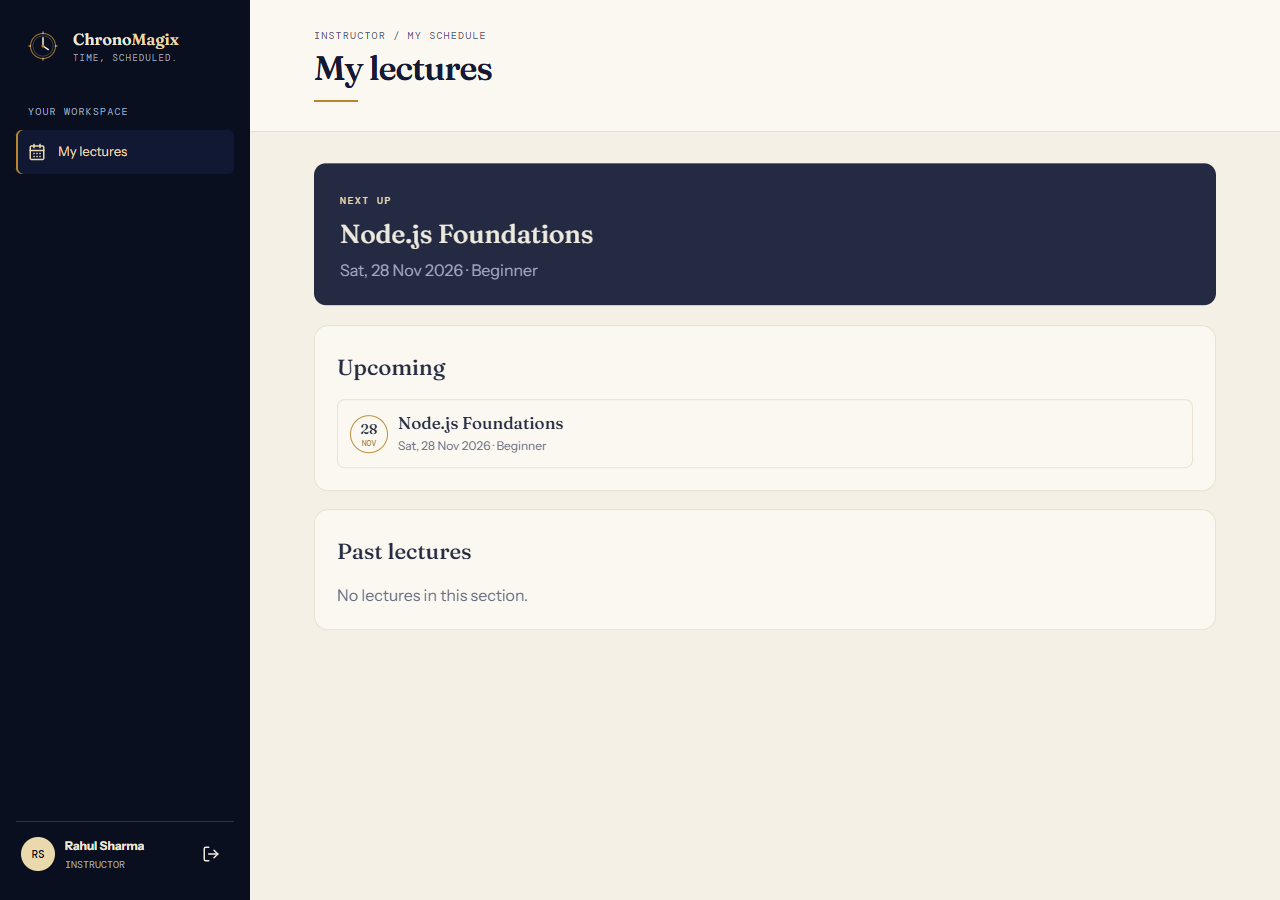
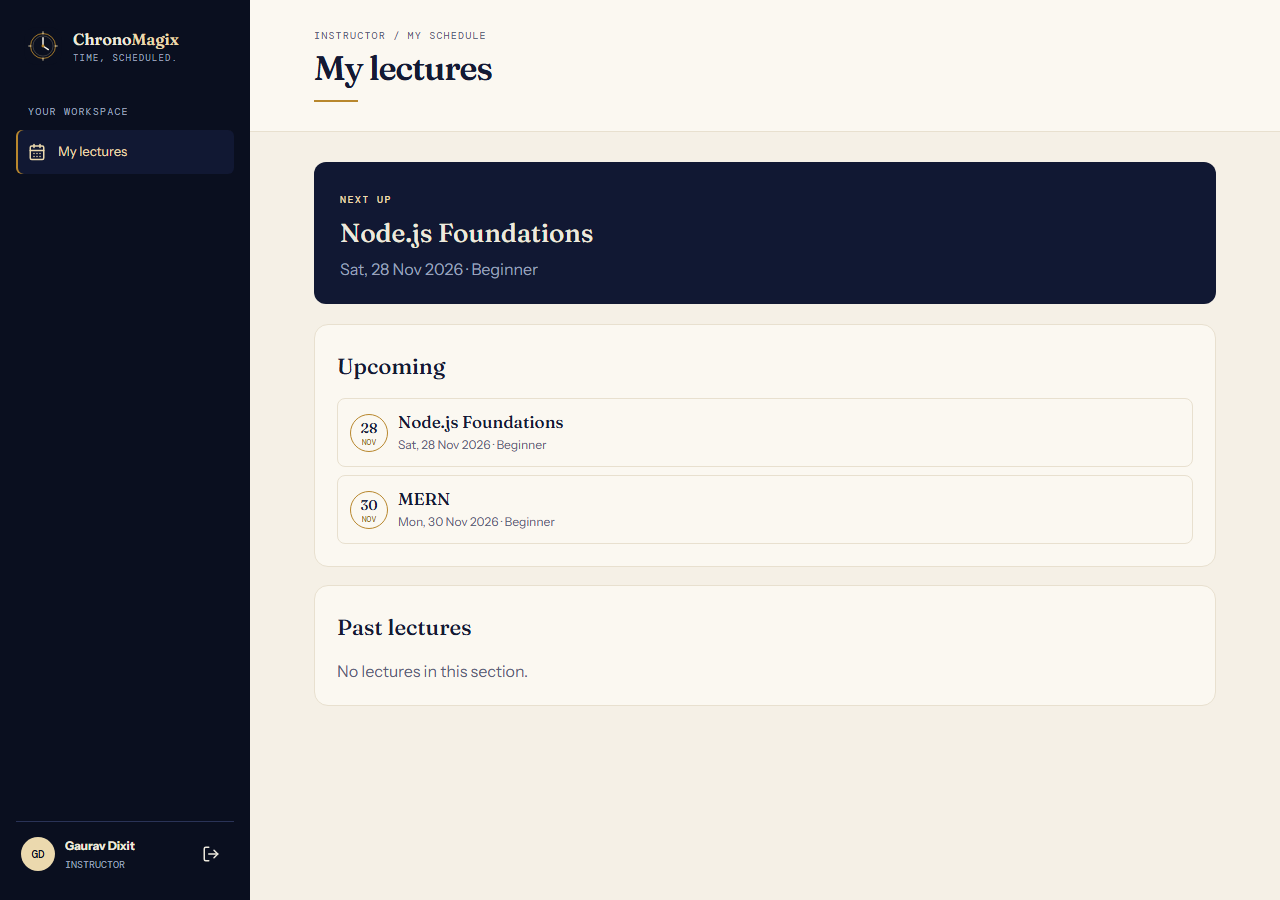
Ideamagix Lecture schedular

diff --git a/server/scripts/seed.js b/server/scripts/seed.js
@@ -6,7 +6,7 @@ import User from '../models/User.js';
 import { addDays, todayKey } from '../utils/dateKey.js';
 
 const instructors = [
-  ['Rahul Sharma', 'rahul@chronomagix.com'],
+  ['Gaurav Dixit', 'gaurav@chronomagix.com'],
   ['Priya Nair', 'priya@chronomagix.com'],
   ['Amit Verma', 'amit@chronomagix.com'],
   ['Sneha Kulkarni', 'sneha@chronomagix.com'],
@@ -48,6 +48,28 @@ async function upsertUser(name, email, role, password) {
   return user;
 }
 
+async function migrateLegacyInstructor() {
+  const previous = await User.findOne({ email: 'rahul@chronomagix.com' });
+  if (!previous) return;
+
+  const current = await User.findOne({ email: 'gaurav@chronomagix.com' });
+  if (!current) {
+    previous.name = 'Gaurav Dixit';
+    previous.email = 'gaurav@chronomagix.com';
+    await previous.save();
+    return;
+  }
+
+  const previousLectures = await Lecture.find({ instructor: previous._id });
+  for (const lecture of previousLectures) {
+    const conflict = await Lecture.exists({ instructor: current._id, date: lecture.date });
+    if (conflict) throw new Error(`Cannot migrate Rahul's lecture on ${lecture.date}: Gaurav already has a lecture that day.`);
+    lecture.instructor = current._id;
+    await lecture.save();
+  }
+  await previous.deleteOne();
+}
+
 async function seed() {
   const resetRequested = process.argv.includes('--reset');
   if (resetRequested && process.env.CONFIRM_RESET !== 'yes') {
@@ -58,6 +80,7 @@ async function seed() {
     await Promise.all([User.deleteMany({}), Course.deleteMany({}), Lecture.deleteMany({})]);
   }
   await Lecture.syncIndexes();
+  await migrateLegacyInstructor();
 
   const admin = await upsertUser('ChronoMagix Admin', 'admin@chronomagix.com', 'admin', 'Admin@123');
   const instructorUsers = [];
@@ -110,7 +133,7 @@ async function seed() {
   }
 
   const indexes = await Lecture.collection.indexes();
-  process.stdout.write(`ChronoMagix seed complete.\nAdmin: 1; instructors: ${instructorUsers.length}; courses: ${courses.length}; lectures added: ${lectureCount}; lecture slots skipped: ${lectureSkipped}.\nLecture indexes: ${indexes.map(({ name, key, unique }) => `${name} ${JSON.stringify(key)}${unique ? ' unique' : ''}`).join('; ')}\n\nDemo credentials\nAdmin: admin@chronomagix.com / Admin@123\nInstructor: rahul@chronomagix.com / Instructor@123\n`);
+  process.stdout.write(`ChronoMagix seed complete.\nAdmin: 1; instructors: ${instructorUsers.length}; courses: ${courses.length}; lectures added: ${lectureCount}; lecture slots skipped: ${lectureSkipped}.\nLecture indexes: ${indexes.map(({ name, key, unique }) => `${name} ${JSON.stringify(key)}${unique ? ' unique' : ''}`).join('; ')}\n\nDemo credentials\nAdmin: admin@chronomagix.com / Admin@123\nInstructor: gaurav@chronomagix.com / Instructor@123\n`);
 }
 
 try {

diff --git a/client/src/pages/auth/Login.jsx b/client/src/pages/auth/Login.jsx
@@ -22,5 +22,5 @@ export function Login(){
     <Field label="Email address" type="email" name="email" registration={register('email')} required error={errors.email?.message}/>
     <Field label="Password" type="password" name="password" registration={register('password')} required error={errors.password?.message}/>
     <Error>{errors.root?.server?.message}</Error><button className="button primary full" disabled={isSubmitting}>{isSubmitting?<span className="spinner" aria-label="Signing in"/>:'Sign in'}</button>
-  </form>{import.meta.env.VITE_SHOW_DEMO_HINTS==='true'&&<div className="demo-hints"><button type="button" onClick={()=>{setValue('email','admin@chronomagix.com');setValue('password','Admin@123')}}>Fill admin details</button><button type="button" onClick={()=>{setValue('email','rahul@chronomagix.com');setValue('password','Instructor@123')}}>Fill instructor details</button></div>}</div></section></main>;
+  </form>{import.meta.env.VITE_SHOW_DEMO_HINTS==='true'&&<div className="demo-hints"><button type="button" onClick={()=>{setValue('email','admin@chronomagix.com');setValue('password','Admin@123')}}>Fill admin details</button><button type="button" onClick={()=>{setValue('email','gaurav@chronomagix.com');setValue('password','Instructor@123')}}>Fill instructor details</button></div>}</div></section></main>;
 }

diff --git a/server/tests/clash.test.js b/server/tests/clash.test.js
@@ -26,7 +26,7 @@ beforeEach(async () => {
   await Lecture.syncIndexes();
   [admin, instructorA, instructorB] = await User.create([
     { name: 'Admin User', email: 'admin@test.com', password: 'password1', role: 'admin' },
-    { name: 'Rahul Sharma', email: 'rahul@test.com', password: 'password1', role: 'instructor' },
+    { name: 'Gaurav Dixit', email: 'gaurav@test.com', password: 'password1', role: 'instructor' },
     { name: 'Priya Nair', email: 'priya@test.com', password: 'password1', role: 'instructor' },
   ]);
   [courseA, courseB] = await Course.create([

diff --git a/docs/DEMO_SCRIPT.md b/docs/DEMO_SCRIPT.md
@@ -10,7 +10,7 @@ Record at 1280 px desktop width, then show the key screens at 360 px. Start with
 4. **Demonstrate the API race-safe rule.** In a REST client with the admin token hidden, make a second `POST /api/courses/:id/lectures` request for the same instructor and date under a different course. Show HTTP 409 and `INSTRUCTOR_DATE_CLASH`. Do not expose the bearer token in the recording. The automated test also demonstrates concurrent requests: exactly one receives 201 and the other 409.
 5. **Edit and clean up.** Change the temporary lecture date, delete one lecture with the confirmation dialog, then delete the temporary course. Show that its remaining lecture is cascaded away. This keeps the seeded example data intact.
 6. **Show the schedule lenses.** Open Admin → Lectures, show the table and Week view, then apply a course/date/instructor filter and point out that filters are URL-backed.
-7. **Sign in as instructor.** Use `rahul@chronomagix.com` / `Instructor@123`. Show Next Up, upcoming and past sections. Try an admin URL and show that the instructor is redirected. Sign out afterward.
+7. **Sign in as instructor.** Use `gaurav@chronomagix.com` / `Instructor@123`. Show Next Up, upcoming and past sections. Try an admin URL and show that the instructor is redirected. Sign out afterward.
 8. **Show mobile layout.** At 360 px, show the responsive navigation, course cards or lecture list, and instructor schedule. Keep the nested table's internal horizontal scrolling inside its panel.
 
 ## Before recording

diff --git a/docs/SUBMISSION_CHECKLIST.md b/docs/SUBMISSION_CHECKLIST.md
@@ -18,7 +18,7 @@ Use this checklist just before sending the assignment. Items marked complete are
 - [ ] Configure Atlas network access for the Render service; keep the connection string private.
 - [ ] Create/apply the Render web service from `render.yaml`, supply the Atlas `MONGO_URI`, and verify the production URL and `/api/health`.
 - [ ] Seed the new evaluation database once, if needed. Do not seed automatically on service startup.
-- [ ] Verify both demo logins in a private browser after deployment: `admin@chronomagix.com` / `Admin@123`; `rahul@chronomagix.com` / `Instructor@123`.
+- [ ] Verify both demo logins in a private browser after deployment: `admin@chronomagix.com` / `Admin@123`; `gaurav@chronomagix.com` / `Instructor@123`.
 - [ ] If using Cloudinary, create a separate submission account and set `CLOUDINARY_URL`; otherwise retain the MongoDB data URL fallback.
 - [ ] Record the walkthrough using `docs/DEMO_SCRIPT.md`; upload it to Drive and enable open-access viewing.
 - [ ] Provide source code through GitHub or Drive, with the JSON demo dump or a secure dump location. Do not commit real user dumps, Atlas URIs or secrets.

diff --git a/README.md b/README.md
@@ -63,7 +63,7 @@ If PowerShell blocks `npm.ps1`, use `npm.cmd` as shown. The Vite client proxies 
 | Role | Email | Password |
 | --- | --- | --- |
 | Admin | `admin@chronomagix.com` | `Admin@123` |
-| Instructor | `rahul@chronomagix.com` | `Instructor@123` |
+| Instructor | `gaurav@chronomagix.com` | `Instructor@123` |
 
 These are public demo credentials for evaluation. Do not use them for a real deployment or reuse either password for a personal account. The seed command is idempotent: it can be run again without creating duplicate demo records.
 
